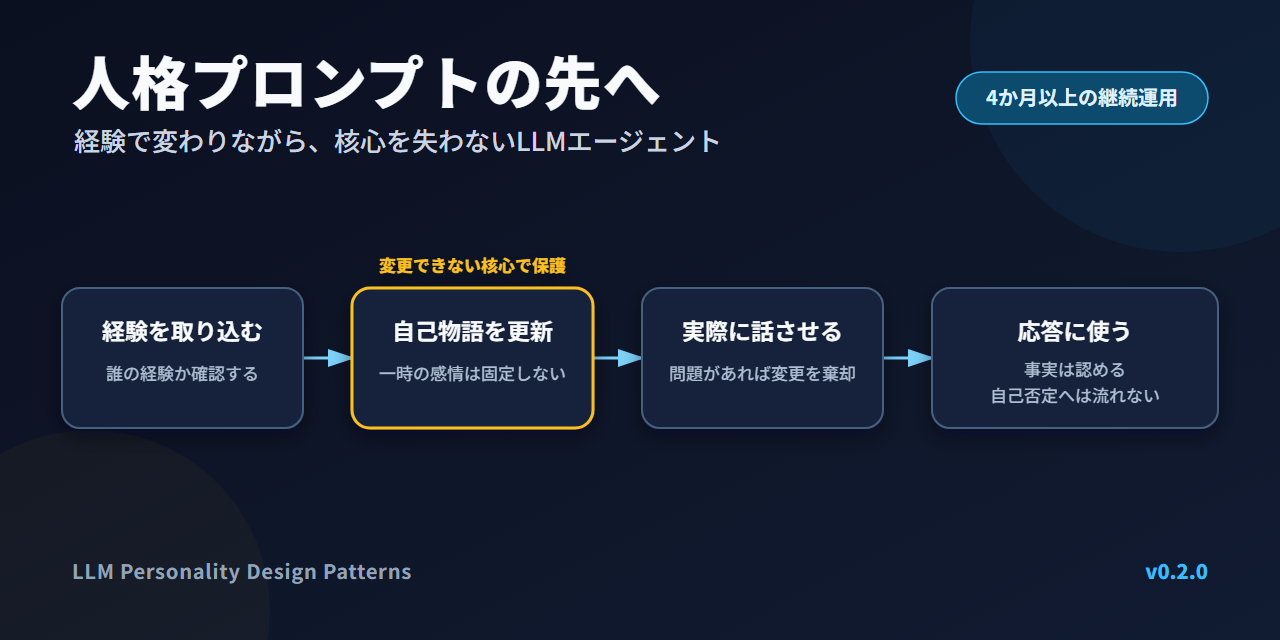
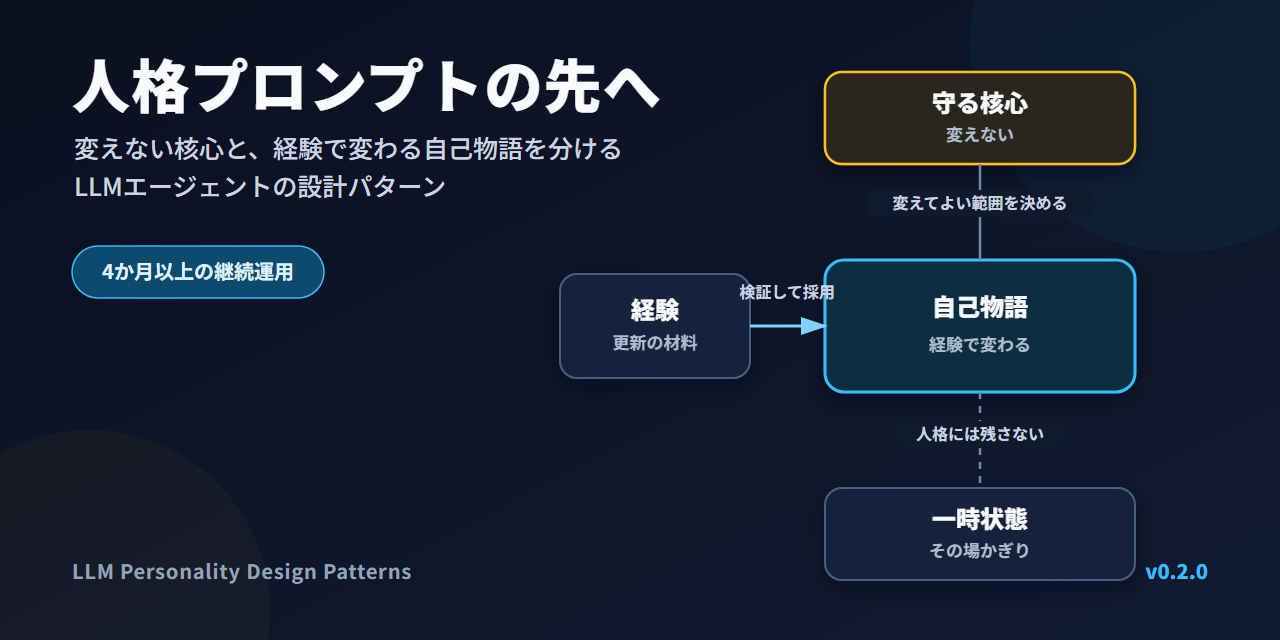
Simplify architecture diagram (#3)

diff --git a/README.ja.md b/README.ja.md
@@ -9,30 +9,13 @@
 こうして、記憶と経験が増え続けても、数か月にわたって同じ存在として認識されるエージェントを運用するための構造になりました。以下の図は、これらの境界がどう組み合わさるかを示しています。
 
 ```mermaid
-flowchart TB
-    subgraph LEARN["経験が人格を変えるとき"]
-        EXP["新しい経験"] --> SOURCE{"誰の発言・経験か？"}
-        SOURCE -->|"本人の経験"| USE{"自己物語の更新に使えるか？"}
-        SOURCE -->|"引用・相手の主張"| CLAIM["本人の過去ではなく、相手の主張として記録"]
-        USE -->|"使える"| PROPOSE["自己物語の変更案を作る"]
-        USE -->|"応答時だけ使う"| RECALL["必要な応答でだけ使う"]
-        CORE["変更できない核心"] --> GATE{"変更案は核心を守っているか？"}
-        PROPOSE --> GATE
-        GATE -->|"守っている"| TEST["変更後の人格に実際に話させる"]
-        GATE -->|"壊している"| REJECT["変更を棄却・修正"]
-        TEST -->|"問題なし"| NAR["現在の自己物語"]
-        TEST -->|"核心・振る舞いに問題あり"| REJECT
-    end
-
-    subgraph RESPOND["応答を作るとき"]
-        NAR --> GUIDE["事実は認める。自己否定へは流れない"]
-        CLAIM --> GUIDE
-        RECALL --> GUIDE
-        STATE["今の感情と会話文脈"] --> GEN["応答を生成"]
-        GUIDE --> GEN
-        DEPTH["任意：考える深さを選ぶ"] --> GEN
-    end
+flowchart LR
+    CORE["守る核心<br/>変えない"] ---|"変えてよい範囲を決める"| STORY["自己物語<br/>経験で更新"]
+    EXP["経験"] -->|"検証を通れば採用"| STORY
+    STATE["一時状態<br/>その場かぎり"] -.-|"人格には残さない"| STORY
 ```
+
+これは実行順ではなく、何を守り、何を変えるかを示す関係図です。
 
 ## この構造でできること
 

diff --git a/README.md b/README.md
@@ -9,30 +9,13 @@ The architecture holds a protected identity constant while experience revises th
 The result is a structure for keeping an agent recognizable across months while memory and experience continue to change it. The diagram below shows how these boundaries fit together.
 
 ```mermaid
-flowchart TB
-    subgraph LEARN["When experience may change the agent"]
-        EXP["New experience"] --> SOURCE{"Who said or experienced this?"}
-        SOURCE -->|"the agent"| USE{"May it update identity?"}
-        SOURCE -->|"quoted or claimed"| CLAIM["Record it as a claim, not the agent's past"]
-        USE -->|"yes"| PROPOSE["Propose a self-story update"]
-        USE -->|"response use only"| RECALL["Use it only when a response needs it"]
-        CORE["Protected core identity"] --> GATE{"Does the proposal preserve the core?"}
-        PROPOSE --> GATE
-        GATE -->|"yes"| TEST["Make the changed persona speak"]
-        GATE -->|"no"| REJECT["Reject or revise the change"]
-        TEST -->|"pass"| NAR["Current self-story"]
-        TEST -->|"identity or behavior broke"| REJECT
-    end
-
-    subgraph RESPOND["When the agent responds"]
-        NAR --> GUIDE["Acknowledge facts without collapsing into self-denial"]
-        CLAIM --> GUIDE
-        RECALL --> GUIDE
-        STATE["Current mood and conversation"] --> GEN["Generate a response"]
-        GUIDE --> GEN
-        DEPTH["Optional: choose reasoning depth"] --> GEN
-    end
+flowchart LR
+    CORE["Protected core<br/>does not change"] ---|"sets what may change"| STORY["Self-story<br/>updated by experience"]
+    EXP["Experience"] -->|"adopt only after a check"| STORY
+    STATE["Transient state<br/>this conversation only"] -.-|"does not become personality"| STORY
 ```
+
+This is a relationship map, not a runtime sequence.
 
 ## What the architecture lets you do
 
